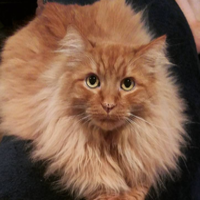
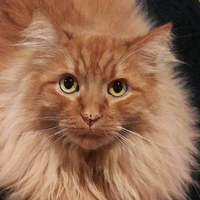
edited some pics, started on percent to matchrank function

diff --git a/public/app/pet-controllers.js b/public/app/pet-controllers.js
@@ -1,8 +1,8 @@
 angular.module('PetCtrls', ['PetFactories'])
     .controller('HomeCtrl', ['$scope', 'Compare', function($scope, Compare) {
         $scope.people = [{
-            imgSrc: '../img/home-test/sk.jpg',
-            compareSrc: './public/img/home-test/sk.jpg',
+            imgSrc: '../img/home-test/sk.png',
+            compareSrc: './public/img/home-test/sk.png',
             name: 'Sara'
         }, {
             imgSrc: '../img/home-test/ab.png',
@@ -11,7 +11,7 @@ angular.module('PetCtrls', ['PetFactories'])
         }, {
             imgSrc: '../img/home-test/at.jpg',
             compareSrc: './public/img/home-test/at.jpg',
-            name: 'Sara'
+            name: 'Andrew'
         }];
         $scope.pets = [{
             imgSrc: '../img/home-test/zoe.png',
@@ -25,6 +25,14 @@ angular.module('PetCtrls', ['PetFactories'])
             imgSrc: '../img/home-test/hobbes.png',
             compareSrc: './public/img/home-test/hobbes.png',
             name: 'Hobbes'
+        }, {
+            imgSrc: '../img/home-test/mickey.png',
+            compareSrc: './public/img/home-test/mickey.png',
+            name: 'Mickey'
+        }, {
+            imgSrc: '../img/home-test/harvey.png',
+            compareSrc: './public/img/home-test/harvey.png',
+            name: 'Harvey'
         }];
         var personToTest;
         var petToTest;
@@ -72,7 +80,7 @@ angular.module('PetCtrls', ['PetFactories'])
 .controller('PetShowCtrl', ['$scope', '$http', '$stateParams', 'Auth', 'Favorite', function($scope, $http, $stateParams, Auth, Favorite) {
         var user = Auth.currentUser();
         var pet = {
-            id: localStorage.petId,
+            id: $stateParams.id,
             name: localStorage.petName,
             petImg: localStorage.petUrl
         };

diff --git a/public/app/pet-factories.js b/public/app/pet-factories.js
@@ -8,6 +8,17 @@ angular.module('PetFactories', ['AuthFactories'])
             compareDemo: function(person, pet) {
                 return $http.post('/api/compare/demo', { person: person, pet: pet });
                 // may want to clean up and add then/catch here, only return matchPercent. will deal with later in week SK
+            },
+            percentToRanking: function(percent) {
+                var matchRank = '';
+                if (percent > 20) {
+                    matchRank = 'best';
+                } else if (percent > 10) {
+                    matchRank = 'good';
+                } else {
+                    matchRank = 'ok';
+                }
+                return matchRank;
             }
         };
     }])
@@ -15,7 +26,7 @@ angular.module('PetFactories', ['AuthFactories'])
         return {
             add: function(userId, pet) {
                 $http.post('/api/users/favorites', { userId: userId, pet: pet }).then(function(result) {
-                    Alerts.add('success', 'Favorite Added')
+                    Alerts.add('success', 'Favorite Added');
                 }).catch(function(err) {
                     console.log(err);
                 });
